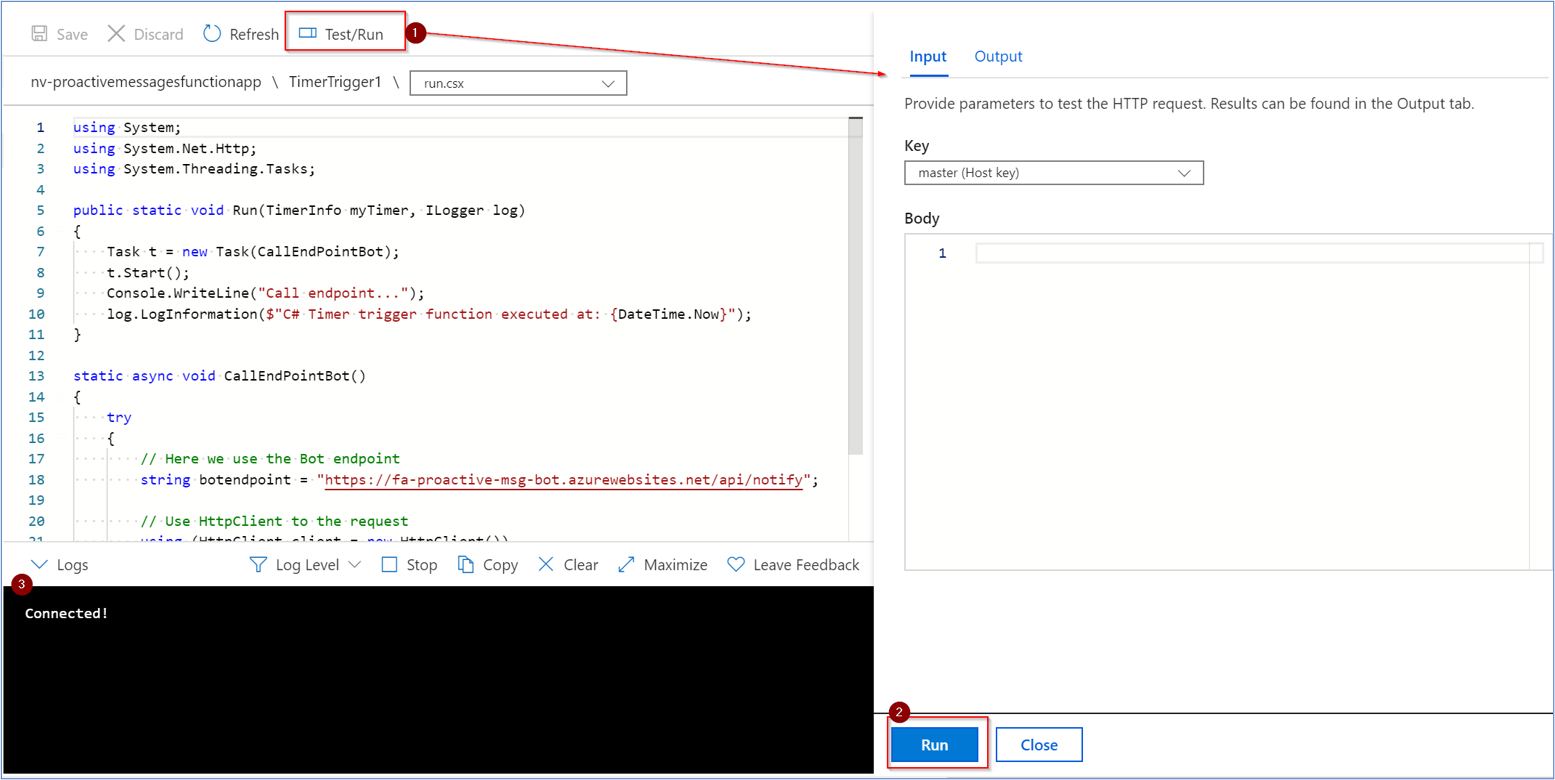
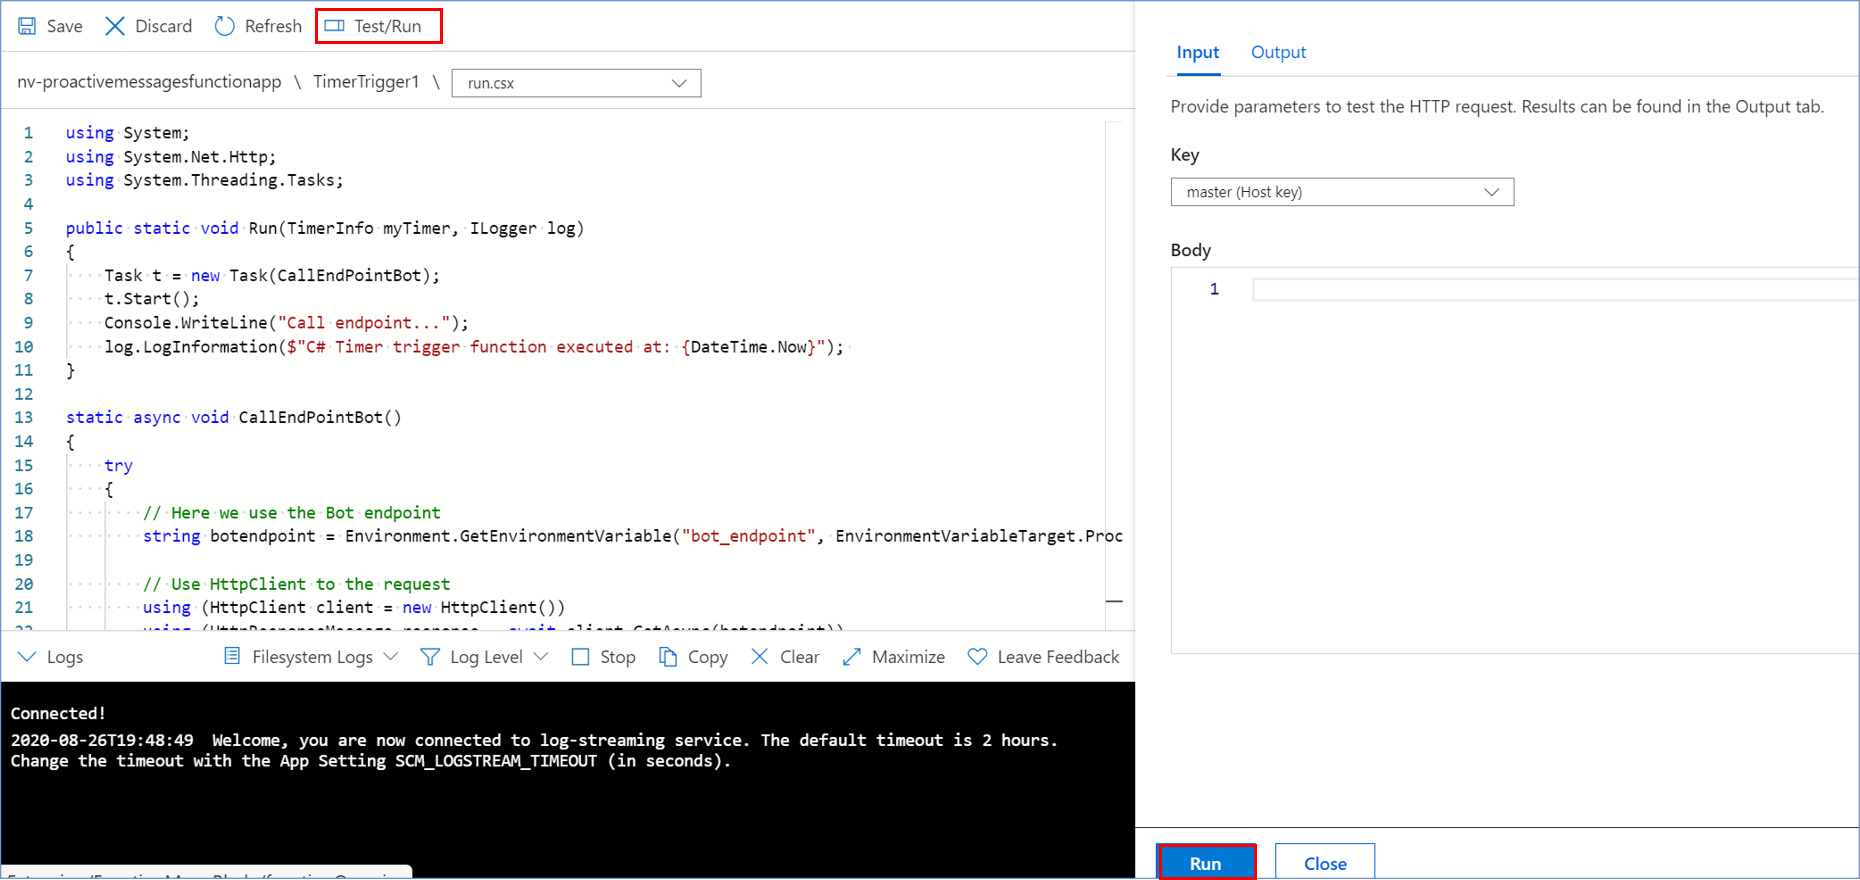
Request changes applied

Changed region(s): [[0.0, 0.0, 1.0, 1.0], [0.5865, 0.2769, 0.6482, 0.3077]]

diff --git a/docs/AzureFunction.md b/docs/AzureFunction.md
@@ -1,26 +1,73 @@
-# Birthday Bot
-
-## Create Azure Function  
-* Add **Function** to **Azure Function** on **Azure Portal**, **Run/Test**
-
-    - Add new Function App into your Azure Portal Resource Group
+# Create Azure Function  
+ - Add new Function App into your [Azure Portal](https://portal.azure.com/) Resource Group
 
     ![Create Function App](images/create-function-app.png)
 
-    - Select the Subscription & Resource Group, **Function App Name**, Runtime stack, Version and Region, and then an Storage account with Windows Operating System
+1. Select **Subscription** and **Resource Group**.
+1. Select and enter a **Function App Name**.
+1. Select **Runtime Stack**, in this case C#.
+1. Select Version and **Region**.
+1. Then, click on **Review + Create**.
+1. If validations are OK, click on **Create**.
+
     
     ![Create Function App Wizard](images/create-function-app-wizard.png)
 
-    - Once created the **function-app**, add a **new Function**, based on **Timer trigger Template**
+ - Once created the **function-app**, add a **new Function**, based on **Timer trigger Template**
 
     ![Add Function to Function App](images/add-function-to-function-app.png)
     **Schedule** could be configure as the classic cronjob on linux.
+- After creating the function, we continue to create a **new application setting**.
+    1. Enter into the **Configuration** option under the Settings section on the left panel.
+    1. Enter the **New application setting** option.
+    1. Then enter a **name** and **value** for our new application setting. In this case as a name we are going to add **bot_endpoint** and as a value we will enter the **endpoint** of our **App Service**.
+    1. And we click on **Ok** to confirm the creation.
+    1. Save the new configuration
 
-    - After created the **function** with the template, edit and save the code to execute every tick of the timer
+    ![Create Function App Wizard](images/applicaction-setting.png)
+
+- Then edit and save the code to execute every tick of the timer.   
+
+    1. Enter the **Code + Test** option in the left panel
+    1. Copy **the function code** and paste it in the code field.
+    **Code**:
+        ```
+        using System;
+        using System.Net.Http;
+        using System.Threading.Tasks;
+
+        public static void Run(TimerInfo myTimer, ILogger log)
+        {
+            Task t = new Task(CallEndPointBot);
+            t.Start();
+            Console.WriteLine("Call endpoint...");
+            log.LogInformation($"C# Timer trigger function executed at: {DateTime.Now}"); 
+        }
+
+        static async void CallEndPointBot()
+        {
+            try
+            {
+                // Here we use the Bot endpoint
+                string botendpoint = Environment.GetEnvironmentVariable("bot_endpoint", EnvironmentVariableTarget.Process);
+
+                // Use HttpClient to the request
+                using (HttpClient client = new HttpClient())
+                using (HttpResponseMessage response = await client.GetAsync(botendpoint))
+                using (HttpContent content = response.Content) { }
+            }
+            catch
+            {
+                log.LogInformation(ex.ToString());
+            }
+        }
+        ```
+    1. Click on **Save** to save the changes.
+
 
     ![Function Code](images/function-code.png)
 
-    - Then **Test/Run** the code and review the log to confirm it runs without problems.
+- Then **Test/Run** the code and review the log to confirm it runs without problems.
 
     ![Test Run Log](images/test-run-log.png)
 

diff --git a/docs/ConfigureAppsettings.md b/docs/ConfigureAppsettings.md
@@ -1,5 +1,4 @@
-# Birthday Bot
-## Configure appsetting.json
+# Configure appsettings.json
 
 ### Set Up Specific Channel
 
@@ -10,28 +9,28 @@ Regarding the main funcionality of the bot, **Send Happy Birthday Message**, you
 ### Set Up Slack App
 
 As for the connection to the slack app, the parameters (**SlackVerificationToken, SlackClientSigningSecret and SlackBotToken**) of the **appsetting.json** file of our project have to be modified.
-- Enter the page of [Slack Api](https://api.slack.com/apps)
+- Browse to [Slack Api](https://api.slack.com/apps)
     - Select the app you want to connect to  
     ![Select Slack App](images/select_slack_app.png)
 
-    - Set parameter **SlackVerificationToken** in **appsetting.json file**:
+    - Set parameter **SlackVerificationToken**:
     ![Set verification token](images/set_verification_token.png)
 
-    - Set parameter **SlackClientSigningSecret** in **appsetting.json file**:
+    - Set parameter **SlackClientSigningSecret**:
     ![Set verification token](images/clientSigninSecret.png)
 
-    - Set parameter **SlackBotToken** in **appsetting.json file**:
+    - Set parameter **SlackBotToken**:
     ![Set verification token](images/slack_bot_token.png)  
 
 ### Set Up Azure Blob Storage
  
-As part of the configuration of the bot, we need to configure several parameters related to the **Blob Storage** in the **appsettings.json** file. The first thing would be to enter our **Storage Account** from the [Azure Portal](https://portal.azure.com/). To modify the following parameters:
+As part of the configuration of the bot, we need to configure several parameters related to the **Blob Storage** in the **appsettings.json** file. The first thing is enter to our **Storage Account** from the [Azure Portal](https://portal.azure.com/). To modify the following parameters:
  
 - **Connection string** into variable **BlobStorageStringConnection**, it is a connection string to the Azure Blob Storage.
 ![](images/blob_storage_string_connection.png)
-- **Data User Container** into variable **BlobStorageDataUsersContainer**, it is an url to the Azure Blob Storage Container.
+- **Data User Container** into variable **BlobStorageDataUsersContainer**, it is a name to the Azure Blob Storage Container. 
 ![](images/data_user_container.png)
-- **Conversation Container** into variable **BlobStorageConversationContainer**, it is an url to the conversation data.
+- **Conversation Container** into variable **BlobStorageConversationContainer**, it is a name to the conversation data.
 ![](images/conversation_container.png)
 
 ### Next Steps

diff --git a/docs/DeployAzurePortal.md b/docs/DeployAzurePortal.md
@@ -1,10 +1,9 @@
-# Birthday Bot
-## Deploy on Azure Portal 
-- In Solution Explorer, right-click the project node and choose **Publish** (or use the **Build** > **Publish** menu item).
-- In the **Publish** dialog, select **Azure**.
-- Select **Azure App Service (Windows)** and **Next**.
-- Sign in with you Azure account, if necessary. Select **Create a new Azure App Service...**
-- In the **Create Azure App Service (Windows)** dialog, the **App Name, Resource Group**, and **App Service Plan** entry fields are populated. Select **Create**. When ready, select **Finish**.
+# Deploy on Azure Portal with Visual Studio
+1. In Solution Explorer, right-click in the project node and choose **Publish** (or use the **Build** > **Publish** menu item).
+1. In the **Publish** dialog, select **Azure**.
+1. Select **Azure App Service (Windows)** and **Next**.
+1. Sign in with you Azure account, if necessary. Select **Create a new Azure App Service...**
+1. In the **Create Azure App Service (Windows)** dialog, the **App Name, Resource Group**, and **App Service Plan** entry fields are populated. Select **Create**. When ready, select **Finish**.
 
 ![Deploy on azure portal](images/deploy.png)
 

diff --git a/docs/BambooHR.md b/docs/BambooHR.md
@@ -1,6 +1,4 @@
-# Birthday Bot
-
-## BambooHR Integration
+# BambooHR Integration
 
 This document explains how to configure an Azure Function in order to retrieve birthdays information from BambooHR.
 
@@ -8,10 +6,11 @@ This document explains how to configure an Azure Function in order to retrieve b
 
 1. [Azure Portal](https://portal.azure.com/) account
 1. Knowledge configuring Azure Functions
+1. Azure Function code
 
 ### Set-up an Azure Function
 
-1. Unzip the code, open the solution with Microsoft Studio Visual Community 2019. (link to zip file)
+1. Open the solution with Microsoft Studio Visual Community 2019.
 1. Right-click on the Project name, and then in Publish.
 1. In the wizard select Azure, select Azure Function App (Windows) and click on next
 1. In the Functions Instances tab, select your existing Azure Function App. Then, click on Finish. If you don't have one, click on Create a New Azure Function.

diff --git a/docs/Blobstorage&Container.md b/docs/Blobstorage&Container.md
@@ -1,5 +1,4 @@
-# Birthday Bot
-## Configure blobstorage & container  
+# Configure blobstorage & container  
 - In your browser, navigate to the [Azure Portal](https://portal.azure.com).
   
 - Add new Storage account into your Azure Portal
@@ -13,10 +12,6 @@ Finally, we select Review + Create to review your storage account settings and c
 - Once created the storage account, add a new Container. Enter a name, select in Public access level Private, and then click create.  
 
      ![Storage account](images/add-container.png)
-
-- With the container created, we will upload the corresponding JSON files. We select the file and then click Upload. We repeat the process to upload the second file.  
-
-     ![Storage account](images/upload-json-file.png)
 
 ### Next Steps
 

diff --git a/docs/README.md b/docs/README.md
@@ -5,7 +5,7 @@ This repository contains sections to be able to configure and deploy the bot wit
 
 1. [Azure Portal](https://portal.azure.com) account
 1. [Slack Workspace](https://slack.com/get-started#/create)
-1. The bot in this repository
+1. [The bot in this repository](../birthday-bot)
 
 # Table of contents
 

diff --git a/docs/SlackApp.md b/docs/SlackApp.md
@@ -1,6 +1,4 @@
-# Birthday Bot
-
-## Create Slack App
+# Create Slack App
 
 * [Connect deployed bot with Slack Channel](https://docs.microsoft.com/en-us/azure/bot-service/bot-service-channel-connect-slack?view=azure-bot-service-4.0&tabs=abs)
 * Add Slack-App to a channel

diff --git a/birthday-bot/README.md b/birthday-bot/README.md
@@ -6,3 +6,4 @@ This bot allows you to send a birthday greeting to users of a specific **Slack**
 ### Operation example
 ![](../docs/images/message_happy_birthday.png)
 
+### [More information](../docs#birthday-bot)
